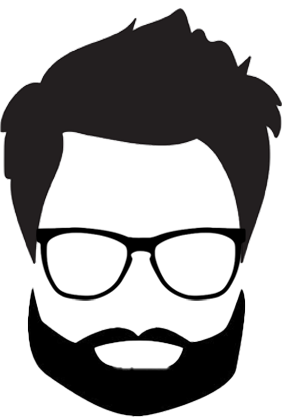
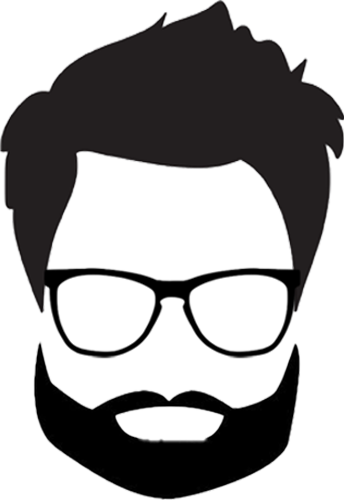
orientation of face

Changed region(s): [[0.0, 0.0, 1.0, 1.0], [0.1759, 0.9041, 0.2345, 0.9353]]

diff --git a/portfolio-app/src/components/Page1.js b/portfolio-app/src/components/Page1.js
@@ -8,6 +8,17 @@ const Page1 =()=>{
         <div className="page1">
             <Navbar/>
             <Face/>
+            <div class="modal-bg">
+                    <div class="modal">
+                        <h2 id="header">About me</h2>
+                        <p id="aboutmecontent">
+                            Info about me
+                        </p>
+                        <span class="modal-close">
+                            X
+                        </span>
+                    </div>
+            </div>   
         </div>
     )
 }

diff --git a/portfolio-app/src/components/Face.js b/portfolio-app/src/components/Face.js
@@ -4,10 +4,12 @@ import faceImg from '../img/fullface.png';
 
 const Face =()=>{
     return(
-        <div className="FaceIcon">
-            <button class="about-btn">
-                <img src={faceImg} id="face" alt="submit"/>
+        <div className="faceIcon">
+            <div className="faceBtn">
+                <button className="about-btn">
+                    <img src={faceImg} id="face" alt="submit"/>
                 </button>
+            </div>
         </div>
     )
 }

diff --git a/portfolio-app/src/components/Face.css b/portfolio-app/src/components/Face.css
@@ -1,12 +1,24 @@
-.FaceIcon{
+.faceIcon{
     background-color: rgba(174, 160, 149, 0.863);
     ;
-    height:80vh;
-    padding-top: 5%;
+    position: relative;
+    display: flex;
+    justify-content: center;
+    align-content: center;
+    
+}
+
+.faceBtn{
+    display: flex;
+    align-items: center;
+    
 }
 .about-btn{
     padding:0;
     border:0;
     outline:none;
     background-color: rgba(174, 160, 149, 0.863);
+    align-self: center;
+
 }
+

diff --git a/portfolio-app/src/components/Page1.css b/portfolio-app/src/components/Page1.css
@@ -1,0 +1,19 @@
+
+.page1{
+    display: grid;
+    grid-template-rows: 10% 90%;
+    grid-template-columns: 100%;
+    grid-auto-flow: row;
+    
+}
+
+.navbar{
+    align-items:center;
+}
+
+.nb{
+    height:100%;
+   align-self: center;
+   padding-top: 10px;
+}
+
